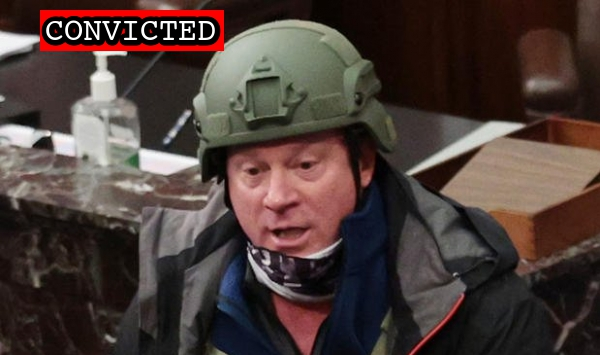
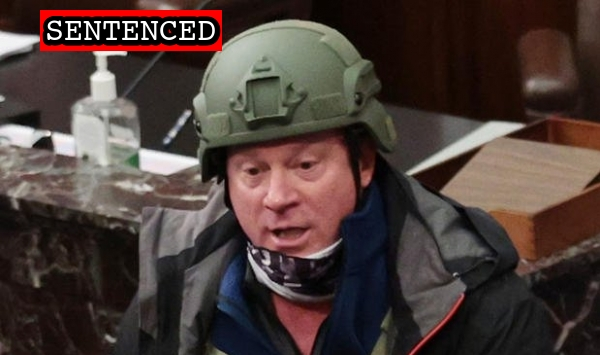
Brock sentence

Changed region(s): [[0.06, 0.031, 0.3, 0.1549], [0.36, 0.031, 0.39, 0.1549]]

diff --git a/docs/_suspects/larry-brock.md b/docs/_suspects/larry-brock.md
@@ -4,13 +4,13 @@ lastName: Brock
 hashtag: LarryBrock
 aka:
 residence: Texas
-status: Convicted
+status: Sentenced
 date: 2021-01-09
 charged: 2021-01-09
 indicted: 2021-06-23
 convicted: 2022-11-16
 acquitted:
-sentenced:
+sentenced: 2023-03-17
 dismissed:
 deceased:
 plea_hearing:
@@ -41,32 +41,37 @@ caseName: USA v. BROCK
 judge: John D. Bates
 videos:
 charges:
-- code: 18 USC § 1512(c)(2),2
-  title: Obstruction of an Official Proceeding (Aiding and Abetting)
-  url: https://www.law.cornell.edu/uscode/text/18/1512
-  felony: true
-- code: 18 USC § 1752(a)(1)
-  title: Entering a restricted building or grounds
-  url: https://www.law.cornell.edu/uscode/text/18/1752
-  felony: false
-- code: 18 USC § 1752(a)(2)
-  title: Disorderly and disruptive conduct in a restricted building or grounds
-  url: https://www.law.cornell.edu/uscode/text/18/1752
-  felony: false
-- code: 40 USC § 5104(e)(2)(A)
-  title: Entering and Remaining on the Floor of Congress
-  url: https://www.law.cornell.edu/uscode/text/40/5104
-  felony: false
-- code: 40 USC § 5104(e)(2)(D)
-  title: Disorderly Conduct in a Capitol Building
-  url: https://www.law.cornell.edu/uscode/text/40/5104
-  felony: false
-- code: 40 USC § 5104(e)(2)(G)
-  title: Parading, demonstrating or picketing in a Capitol building
-  url: https://www.law.cornell.edu/uscode/text/40/5104
-  felony: false
+  - code: 18 USC § 1512(c)(2),2
+    title: Obstruction of an Official Proceeding (Aiding and Abetting)
+    url: https://www.law.cornell.edu/uscode/text/18/1512
+    felony: true
+  - code: 18 USC § 1752(a)(1)
+    title: Entering a restricted building or grounds
+    url: https://www.law.cornell.edu/uscode/text/18/1752
+    felony: false
+  - code: 18 USC § 1752(a)(2)
+    title: Disorderly and disruptive conduct in a restricted building or grounds
+    url: https://www.law.cornell.edu/uscode/text/18/1752
+    felony: false
+  - code: 40 USC § 5104(e)(2)(A)
+    title: Entering and Remaining on the Floor of Congress
+    url: https://www.law.cornell.edu/uscode/text/40/5104
+    felony: false
+  - code: 40 USC § 5104(e)(2)(D)
+    title: Disorderly Conduct in a Capitol Building
+    url: https://www.law.cornell.edu/uscode/text/40/5104
+    felony: false
+  - code: 40 USC § 5104(e)(2)(G)
+    title: Parading, demonstrating or picketing in a Capitol building
+    url: https://www.law.cornell.edu/uscode/text/40/5104
+    felony: false
 sentence:
+  - 2 years incarceration
+  - 2 years probation
+  - 100 hours community service
+  - $2000 restitution
 ---
+
 - [News Report](https://www.nbcdfw.com/news/local/fbi-arrests-grapevine-man-photographed-in-tactical-gear-on-us-senate-floor/2524718/)
 - [DOJ Press Release](https://www.justice.gov/usao-dc/pr/two-men-charged-connection-events-us-capitol)
 - [Complaint](https://www.justice.gov/usao-dc/press-release/file/1352016/download)
@@ -77,3 +82,4 @@ sentence:
 - [Indictment](https://www.justice.gov/usao-dc/case-multi-defendant/file/1416921/download)
 - [Defense Motion for Modification of Bond](https://extremism.gwu.edu/sites/g/files/zaxdzs2191/f/Larry%20Rendall%20Brock%20Defense%20Motion%20to%20Modify%20Conditions%20of%20Release.pdf)
 - [Government's Opposition to Modifying Conditions of Release](https://extremism.gwu.edu/sites/g/files/zaxdzs2191/f/Larry%20Rendall%20Brock%20Government%20Response%20to%20Motion%20to%20Modify%20Conditions%20of%20Release.pdf)
+- [DOJ Press Release (Sentencing)](https://www.justice.gov/usao-dc/pr/texas-man-sentenced-felony-and-misdemeanor-charges-related-capitol-breach)
